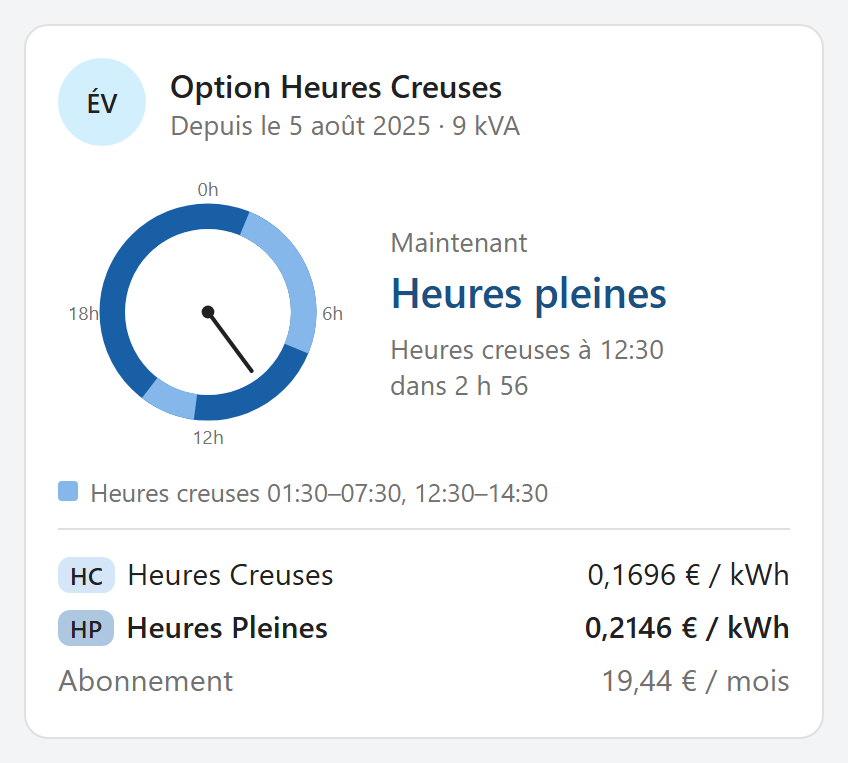
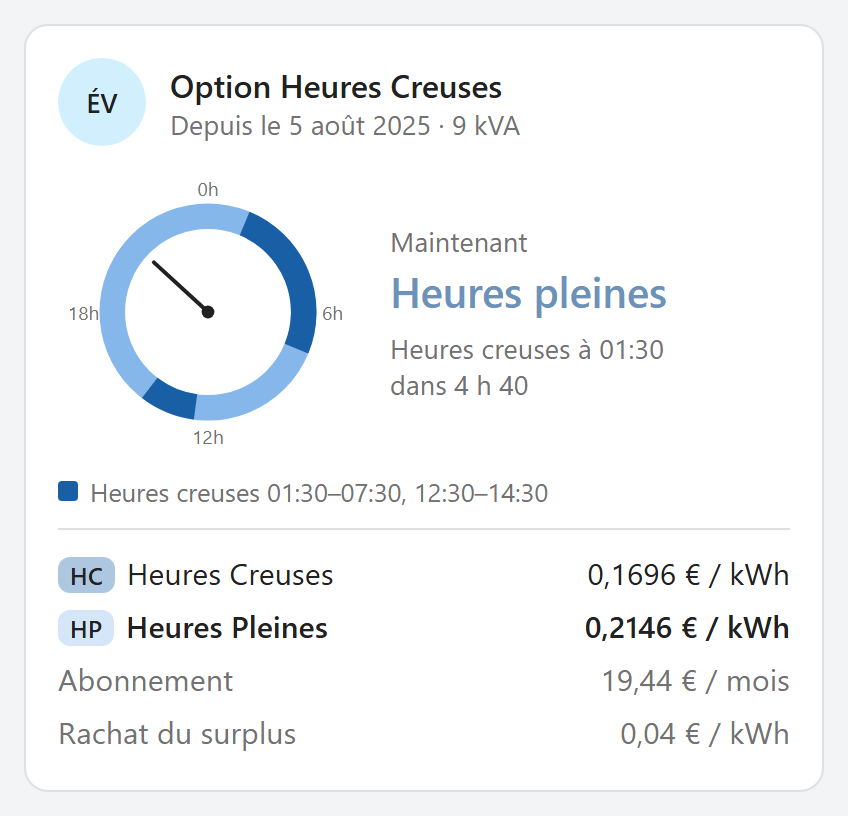
Mettre à jour les captures Contrat et Mesures et quelques libellés
Captures des cartes Contrat et Mesures avec les couleurs HC/HP actuelles,
le prix de rachat du surplus, le surplus, et les totaux Achat et Revente.
Guide des cartes : écart sur 7 jours pour l'aiguille, surplus injecté
dans la carte Mesures. CONFIGURATION.md cite le Marketplace.

diff --git a/docs/cartes.md b/docs/cartes.md
@@ -42,9 +42,9 @@ Le cadran du boîtier ecojoko.
 
 - **L'arc du haut** montre la puissance en temps réel sur une échelle logarithmique (0, 50, 100, 500, 1K, 5K, 10K, MAX), en zones de plus en plus marquées.
 - **Le disque central** affiche la puissance en W, la puissance apparente en VA quand elle est disponible, et la courbe des dernières minutes. Avec les totaux HC/HP ou un contrat Tempo, il prend la couleur de la période en cours et en affiche le nom (« HEURES CREUSES », « HEURES PLEINES · JOUR ROUGE ») ; il passe au vert et titre « INJECTION RÉSEAU » pendant l'injection d'un surplus.
-- **L'aiguille du bas** indique vos économies sur 7 jours, de -20 % (économie, côté vert) à +20 % (surconsommation).
+- **L'aiguille du bas** indique l'écart de votre consommation des 7 derniers jours avec votre consommation de référence (capteur « Écart sur 7 Jours »), de -20 % (économie, côté vert) à +20 % (surconsommation).
 
-Comme sur le boîtier, le disque a plusieurs faces, que l'on fait défiler en glissant le doigt ou avec les points : la puissance temps réel ; les économies sur 7 jours ; le coût et la consommation sur 7 jours avec l'histogramme des jours ; la puissance maximale du mois, de l'année et depuis le début. Les faces 2 à 4 et l'aiguille demandent l'option Activité du compte. La carte revient d'elle-même sur la puissance au bout de 30 secondes.
+Comme sur le boîtier, le disque a plusieurs faces, que l'on fait défiler en glissant le doigt ou avec les points : la puissance temps réel ; l'économie ou la surconsommation sur 7 jours ; le coût et la consommation sur 7 jours avec l'histogramme des jours ; la puissance maximale du mois, de l'année et depuis le début. Les faces 2 à 4 et l'aiguille demandent l'option Activité du compte. La carte revient d'elle-même sur la puissance au bout de 30 secondes.
 
 | Période | Heures creuses | Heures pleines |
 |---|---|---|
@@ -227,8 +227,8 @@ entity: sensor.ecojoko_consommation_temps_reel
 
 La page « Mesures » d'ecojoko, avec trois onglets.
 
-- **Électricité, Jour** : la courbe de puissance colorée selon la tranche tarifaire de chaque instant (heures pleines, heures creuses, couleurs Tempo…), le talon de consommation en bleu foncé dessous et la production injectée sous l'axe. Toucher la courbe donne la puissance à cette heure.
-- **Électricité, Semaine, Mois, Année** : les jours ou les mois en barres empilées par tranche, en kWh ou en euros, avec la production injectée sous l'axe. La légende donne le total de chaque tranche ; toucher une barre affiche son détail.
+- **Électricité, Jour** : la courbe de puissance colorée selon la tranche tarifaire de chaque instant (heures pleines, heures creuses, couleurs Tempo…), le talon de consommation en bleu foncé dessous et le surplus injecté sous l'axe, en jaune. Toucher la courbe donne la puissance à cette heure.
+- **Électricité, Semaine, Mois, Année** : les jours ou les mois en barres empilées par tranche, en kWh ou en euros, avec le surplus injecté sous l'axe. La légende donne le total de chaque tranche ; toucher une barre affiche son détail.
 - **Totaux** : en haut à droite, la consommation et son coût, avec le surplus injecté entre les deux. Si vous revendez votre surplus, deux lignes : « Achat » (consommation et coût) et « Revente » (surplus et montant de la revente) ; le détail d'une barre donne aussi le montant de sa revente.
 - **Température, Humidité** : les courbes intérieure et extérieure, avec la moyenne intérieure. Elles viennent des statistiques des capteurs de Home Assistant quand ceux-ci couvrent toute la période, sinon d'ecojoko, qui a tout l'historique de la sonde. Si ecojoko ne donne que la mesure du moment, la carte affiche ce que Home Assistant a déjà enregistré.
 - **Navigation** : les flèches, ou un glissement du doigt, passent à la période précédente ou suivante. Le mois est le mois calendaire, pour les trois onglets. La carte s'arrête à la première période qu'ecojoko connaît : la flèche précédente disparaît.

diff --git a/CONFIGURATION.md b/CONFIGURATION.md
@@ -2,6 +2,6 @@
 
 La documentation est désormais découpée en trois guides :
 
-- [Installation et configuration](docs/installation.md) : HACS, les trois écrans de configuration, les options, la mise à jour depuis la 1.2.8, le dépannage.
+- [Installation et configuration](docs/installation.md) : le Marketplace (anciennement HACS), les trois écrans de configuration, les options, la mise à jour depuis la 1.2.8, le dépannage.
 - [L'intégration](docs/integration.md) : les appareils, les capteurs, le pilotage des équipements, les services.
 - [Les cartes](docs/cartes.md) : les huit cartes du tableau de bord et leurs options.
